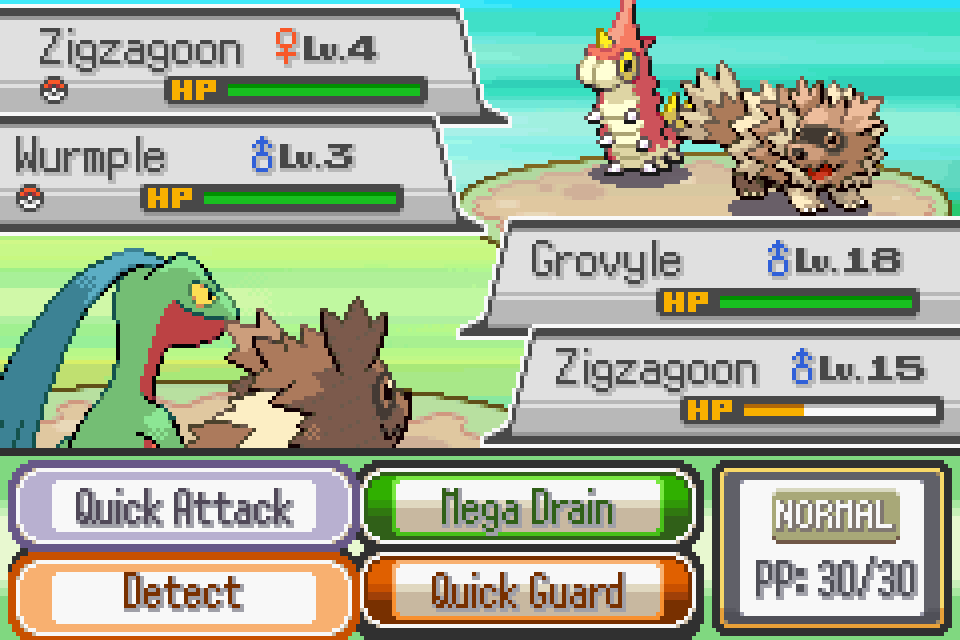
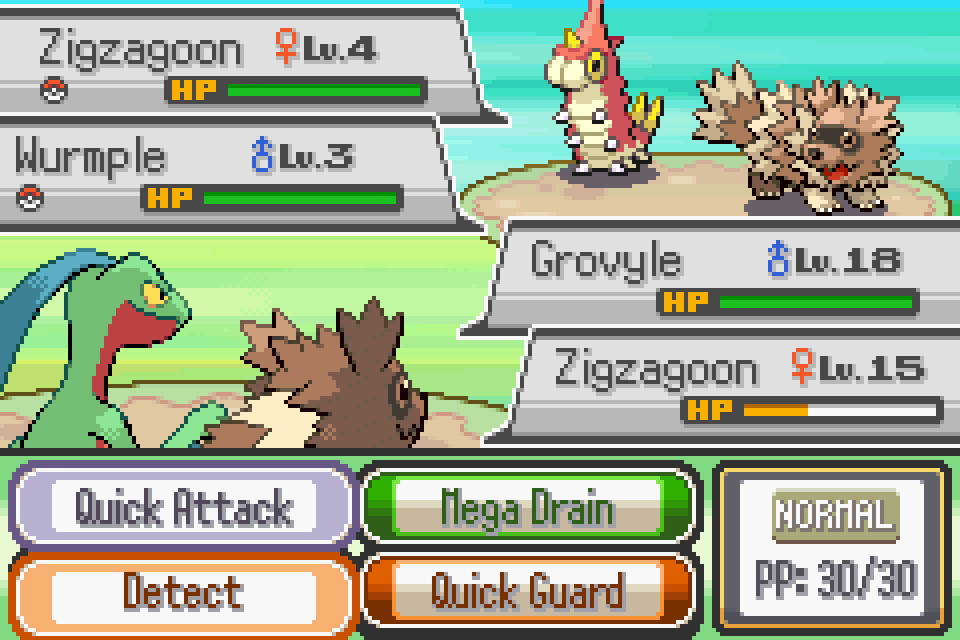
Screen Size 1x/2x/3x/Full, window-scale check on every change, doubles spread
- screen_size.rb replaces pbSetResizeFactor and the Options "Screen Size" row:
  1x, 2x, 3x and fullscreen only; a saved size no longer offered becomes 2x.
  The mkxp-z 2.4.2 scale reset (first resize_screen puts Graphics.scale back
  to 1.0 a frame later; without the fix the window opened at 480x320) is now
  handled by a check after every size change. Measured: start 960x640,
  3x 1440x960, 2x 960x640, 1x 480x320, clamps to 960x640.
- ui_battle.rb: double battles spread each side's two battlers apart so the
  player's lead no longer covers its ally.
- Tests for the allowed sizes and the 2x default; python floor 216.
- Re-captured battles and the Screen Size row; README gets a manual re-check
  item for the scale fix.

Changed region(s): [[0.0, 0.375, 0.4688, 0.7188], [0.5625, 0.0, 0.9375, 0.3438], [0.8125, 0.5312, 0.875, 0.625]]

diff --git a/game/Plugins/PSC_Screen/screen_size.rb b/game/Plugins/PSC_Screen/screen_size.rb
@@ -1,0 +1,83 @@
+#===============================================================================
+# Window size (Options > Screen Size): 1x, 2x, 3x or fullscreen only. The game
+# is 480x320 and mkxp.json scales by whole numbers with no smoothing, so the
+# half sizes Essentials offers (0.5x, 1.5x) would show a smaller picture
+# inside a bigger window. Fullscreen stays: integer scaling letterboxes it.
+#
+# Sizes keep Essentials' $PokemonSystem.screensize numbers, where the window
+# scale is (size + 1) / 2 and 4 means fullscreen; 3x is the new value 5.
+#===============================================================================
+module PSC
+  module Screen
+    SIZE_1X      = 1
+    SIZE_2X      = 3
+    SIZE_FULL    = 4
+    SIZE_3X      = 5
+    SIZES        = [SIZE_1X, SIZE_2X, SIZE_3X, SIZE_FULL]   # order shown in Options
+    DEFAULT_SIZE = SIZE_2X
+    # Scales closer than this count as equal (Graphics.scale is a float).
+    SCALE_TOLERANCE = 0.01
+
+    def self.allowed_size(size)
+      return SIZES.include?(size) ? size : DEFAULT_SIZE
+    end
+
+    def self.window_scale(size)
+      return (size + 1) * 0.5
+    end
+
+    # Sets the window scale and checks it held. mkxp-z 2.4.2: the window change
+    # made by the first Graphics.resize_screen lands one frame later and puts
+    # Graphics.scale back to 1.0, so the game opened in a 480x320 window
+    # (measured 2026-10-19). Later scale changes hold at once (measured 1x, 2x,
+    # 3x). So after every change, wait one frame and set the scale again if
+    # it moved. Manual re-check item in docs/captures/README.md.
+    def self.set_window_scale(scale)
+      Graphics.scale = scale
+      Graphics.center
+      Graphics.update
+      return if (Graphics.scale - scale).abs < SCALE_TOLERANCE
+      Graphics.scale = scale
+      Graphics.center
+    end
+  end
+end
+
+# Replaces Essentials' pbSetResizeFactor (UI_Options/MKXP_Compatibility).
+def pbSetResizeFactor(factor)
+  # Old saves (or a default) with a size we no longer offer become 2x.
+  if $PokemonSystem && !PSC::Screen::SIZES.include?($PokemonSystem.screensize)
+    $PokemonSystem.screensize = PSC::Screen::DEFAULT_SIZE
+  end
+  # Game.set_up_system passes [screensize, 4].min, which would turn 3x into
+  # fullscreen; use the stored 3x instead.
+  if factor == PSC::Screen::SIZE_FULL && $PokemonSystem&.screensize == PSC::Screen::SIZE_3X
+    factor = PSC::Screen::SIZE_3X
+  end
+  factor = PSC::Screen.allowed_size(factor)
+  if !$ResizeInitialized
+    Graphics.resize_screen(Settings::SCREEN_WIDTH, Settings::SCREEN_HEIGHT)
+    $ResizeInitialized = true
+  end
+  if factor == PSC::Screen::SIZE_FULL
+    Graphics.fullscreen = true if !Graphics.fullscreen
+  else
+    Graphics.fullscreen = false if Graphics.fullscreen
+    PSC::Screen.set_window_scale(PSC::Screen.window_scale(factor))
+  end
+end
+
+MenuHandlers.add(:options_menu, :screen_size, {
+  "name"        => _INTL("Screen Size"),
+  "order"       => 120,
+  "type"        => EnumOption,
+  "parameters"  => [_INTL("1x"), _INTL("2x"), _INTL("3x"), _INTL("Full")],
+  "description" => _INTL("Choose the size of the game window."),
+  "get_proc"    => proc { next PSC::Screen::SIZES.index(PSC::Screen.allowed_size($PokemonSystem.screensize)) },
+  "set_proc"    => proc { |value, _scene|
+    size = PSC::Screen::SIZES[value]
+    next if $PokemonSystem.screensize == size
+    $PokemonSystem.screensize = size
+    pbSetResizeFactor(size)
+  }
+})

diff --git a/game/Plugins/PSC_Screen/screen.rb b/game/Plugins/PSC_Screen/screen.rb
@@ -1,10 +1,10 @@
 #===============================================================================
 # PSC Screen (D-017): the game runs at 480x320, exactly twice the GBA's 240x160.
 # The window opens at 2x (960x640, mkxp.json) with integer scaling and no
-# smoothing. Essentials reads Settings::SCREEN_WIDTH/HEIGHT in
-# pbSetResizeFactor (Graphics.resize_screen), which runs in Game.set_up_system,
-# after plugins load, so overriding the constants here is enough for the screen
-# itself. A few constants and viewports were already computed from the old
+# smoothing. Settings::SCREEN_WIDTH/HEIGHT are read by pbSetResizeFactor
+# (Graphics.resize_screen; replaced in screen_size.rb), which runs in
+# Game.set_up_system after plugins load, so overriding the constants here is
+# enough for the screen itself. A few constants and viewports were already computed from the old
 # 512x384 when Essentials' scripts loaded; they are recomputed below.
 #===============================================================================
 module PSC
@@ -54,19 +54,6 @@ PSC::Screen.redefine(Game_Player, :SCREEN_CENTER_Y,
     next if !klass.class_variable_defined?(var)
     klass.class_variable_get(var).rect = Rect.new(0, 0, Settings::SCREEN_WIDTH, Settings::SCREEN_HEIGHT)
   end
-end
-
-# pbSetResizeFactor runs Graphics.resize_screen once, then sets Graphics.scale.
-# mkxp-z applies the resize on the next frame and resets the scale to 1.0, so
-# the window would open at 480x320. Set the scale again after that frame.
-alias psc_screen_set_resize_factor pbSetResizeFactor
-def pbSetResizeFactor(factor)
-  first_resize = !$ResizeInitialized
-  psc_screen_set_resize_factor(factor)
-  return if !first_resize || factor < 0 || factor == 4
-  Graphics.update
-  Graphics.scale = (factor + 1) * 0.5
-  Graphics.center
 end
 
 # Lets a plugin give an IconSprite a bitmap it built in code (e.g. a squeezed

diff --git a/tests/python/test_screen_config.py b/tests/python/test_screen_config.py
@@ -111,3 +111,29 @@ def test_plugin_scripts_rxdata_matches_plugin_sources():
         assert sorted(compiled[name]) == sorted(files), name
         for f, data in files.items():
             assert compiled[name][f].replace(b"\r\n", b"\n") == data.replace(b"\r\n", b"\n"), f"{name}/{f} is stale"
+
+
+def _ruby_int_consts(src):
+    return {k: int(v) for k, v in re.findall(r"^\s*([A-Z_0-9]+)\s*=\s*(\d+)\s*$", src, re.M)}
+
+
+def test_screen_size_option_offers_only_1x_2x_3x_and_fullscreen():
+    # Ruling 2026-10-19: Screen Size offers 1x, 2x, 3x and Full; anything else becomes 2x.
+    src = (SCREEN_PLUGIN / "screen_size.rb").read_text(encoding="utf-8")
+    c = _ruby_int_consts(src)
+    scale = lambda size: (size + 1) * 0.5  # Essentials: window scale = (screensize + 1) / 2
+    assert [scale(c["SIZE_1X"]), scale(c["SIZE_2X"]), scale(c["SIZE_3X"])] == [1.0, 2.0, 3.0]
+    assert c["SIZE_FULL"] == 4  # Essentials' fullscreen value
+    sizes = re.search(r"SIZES\s*=\s*\[([^\]]*)\]", src).group(1).split(",")
+    assert [s.strip() for s in sizes] == ["SIZE_1X", "SIZE_2X", "SIZE_3X", "SIZE_FULL"]
+    assert re.search(r"DEFAULT_SIZE\s*=\s*SIZE_2X\b", src)
+    labels = re.search(r'"parameters"\s*=>\s*\[(.*?)\]', src).group(1)
+    assert re.findall(r'_INTL\("([^"]+)"\)', labels) == ["1x", "2x", "3x", "Full"]
+    assert 'MenuHandlers.add(:options_menu, :screen_size' in src
+
+
+def test_default_screen_size_is_2x():
+    # PokemonSystem's default screensize is (SCREEN_SCALE * 2).floor - 1; it must equal SIZE_2X.
+    scale = float(re.search(r"^\s*SCALE\s*=\s*([\d.]+)", (SCREEN_PLUGIN / "screen.rb").read_text(), re.M).group(1))
+    size_2x = _ruby_int_consts((SCREEN_PLUGIN / "screen_size.rb").read_text(encoding="utf-8"))["SIZE_2X"]
+    assert int(scale * 2) - 1 == size_2x

diff --git a/game/Plugins/PSC_Screen/ui_battle.rb b/game/Plugins/PSC_Screen/ui_battle.rb
@@ -17,6 +17,20 @@ class Battle::Scene
   PSC::Screen.redefine(self, :FOE_BASE_X, Settings::SCREEN_WIDTH - 128)
   PSC::Screen.redefine(self, :FOE_BASE_Y, (Settings::SCREEN_HEIGHT * 3 / 4) - 112 - FOE_SIDE_LIFT_Y)
 
+  # Double battles: Essentials spaces each side's two battlers 80 pixels apart,
+  # which on this narrower scene put the player's lead almost on top of its
+  # ally. Spread both sides further apart (extra x per battler index).
+  DOUBLE_SPREAD_X = [-24, 8, 8, -16]
+
+  class << self
+    alias psc_screen_pbBattlerPosition pbBattlerPosition
+    def pbBattlerPosition(index, sideSize = 1)
+      ret = psc_screen_pbBattlerPosition(index, sideSize)
+      ret[0] += DOUBLE_SPREAD_X[index] if sideSize == 2
+      return ret
+    end
+  end
+
   # overlay_message.png is one 512-wide box; its middle is plain fill.
   MESSAGE_BOX_CUT_X = 240
 

diff --git a/docs/captures/README.md b/docs/captures/README.md
@@ -5,7 +5,8 @@
 The game runs at 480x320 (twice the GBA's 240x160) in a 960x640 window, integer scaling, no smoothing
 (`game/mkxp.json`, `game/Plugins/PSC_Screen/screen.rb`). Each capture in `task4/` is the game's own frame
 (480x320, taken in-engine with `Graphics.snap_to_bitmap`) scaled 2x nearest-neighbour: the same pixels the
-960x640 window shows. Window client size measured at 960x640 on every run.
+960x640 window shows. They show the game window only (engine frames), never the desktop. Window client
+size measured at 960x640 on every run.
 
 Party used: Grovyle 18, Zigzagoon 15 (a third of its HP), Taillow 14, Lotad 12 (poisoned), Wurmple 8,
 Poochyena 11; Lappet Town; wild battles against Zigzagoon (single) and Zigzagoon + Wurmple (double).
@@ -20,12 +21,21 @@ it cannot be made clean by moving things in code. It waits for the licensed Gen 
 | Overworld | `overworld.png` | Clean (camera centre recomputed in `screen.rb`). |
 | Message box | `message.png` | Clean. |
 | Single battle | `battle_single_command.png`, `battle_single_fight.png` | Fixed in `ui_battle.rb`: bases moved for the 224-pixel scene, message and command boxes narrowed, move buttons narrowed so the type/PP box fits. |
-| Double battle | `battle_double_command.png`, `battle_double_fight.png`, `battle_double_target.png` | Fixed in `ui_battle.rb`: four battlers, both databoxes per side visible, foes raised clear of the player's databoxes, target buttons centred. |
+| Double battle | `battle_double_command.png`, `battle_double_fight.png`, `battle_double_target.png` | Fixed in `ui_battle.rb`: four battlers, both databoxes per side visible, each side's two battlers spread apart so neither covers its ally, foes raised clear of the player's databoxes, target buttons centred. |
 | Party | `party.png` | Needs art: the right column of panels is cut at x 480, the bottom row sits under the "Choose a Pokémon." box, the Cancel button is off-screen. |
 | Summary | `summary_1_info.png` to `summary_5_ribbons.png`, `summary_4_moves_detail.png` | Needs art: the right panel and the fifth tab are cut at x 480 (e.g. Exp. Points is clipped), and the bottom 64 pixels (To Next Lv., Exp. bar, Moves page's fourth move PP, Ribbons' last row) are off-screen. |
 | Bag | `bag.png` | Needs art: the item list box and its scroll arrows are cut at the right; only the first line of the item description shows. |
 | Pokédex | `pokedex.png` | Needs art: the list's scroll bar is cut at the right and the Seen/Owned counters at the bottom are cut. The entry page was not opened. |
-| Options | `options.png` | Clean (first five rows; the rows below, e.g. Screen Size, were not scrolled to). |
+| Options | `options.png`, `options_screen_size.png`, `options_screen_size_3x.png` | Clean. Screen Size offers 1x, 2x, 3x and Full (`screen_size.rb`); measured window: start 960x640, 3x 1440x960, 2x 960x640, 1x 480x320, back to 2x 960x640. Saved sizes no longer offered (0.5x, 1.5x) become 2x (measured 960x640). Fullscreen not exercised. |
 | Save | `save.png` | Clean. |
 | Poké Mart | `mart_menu.png`, `mart_buy.png` | Menu clean. Buy screen needs art: the Money window covers the first letters of the item names, and the description's third line is cut at the bottom. |
 | PC | `pc_menu.png`, `pc_storage.png` | PC menu clean. Box storage needs art: the box and the party panel are cut at the right and bottom. |
+
+## Manual re-check (each mkxp-z update)
+
+mkxp-z 2.4.2 resets `Graphics.scale` to 1.0 one frame after the first `Graphics.resize_screen`, so without
+a fix the game opens in a 480x320 window (measured 2026-10-19; later scale changes hold).
+`PSC::Screen.set_window_scale` (`game/Plugins/PSC_Screen/screen_size.rb`) checks the scale one frame after
+every change and sets it again. After updating mkxp-z: start the game and check the window opens at 960x640,
+then switch Options > Screen Size to 3x and back to 2x (1440x960, then 960x640). If the scale holds without
+the check, the check can go.
